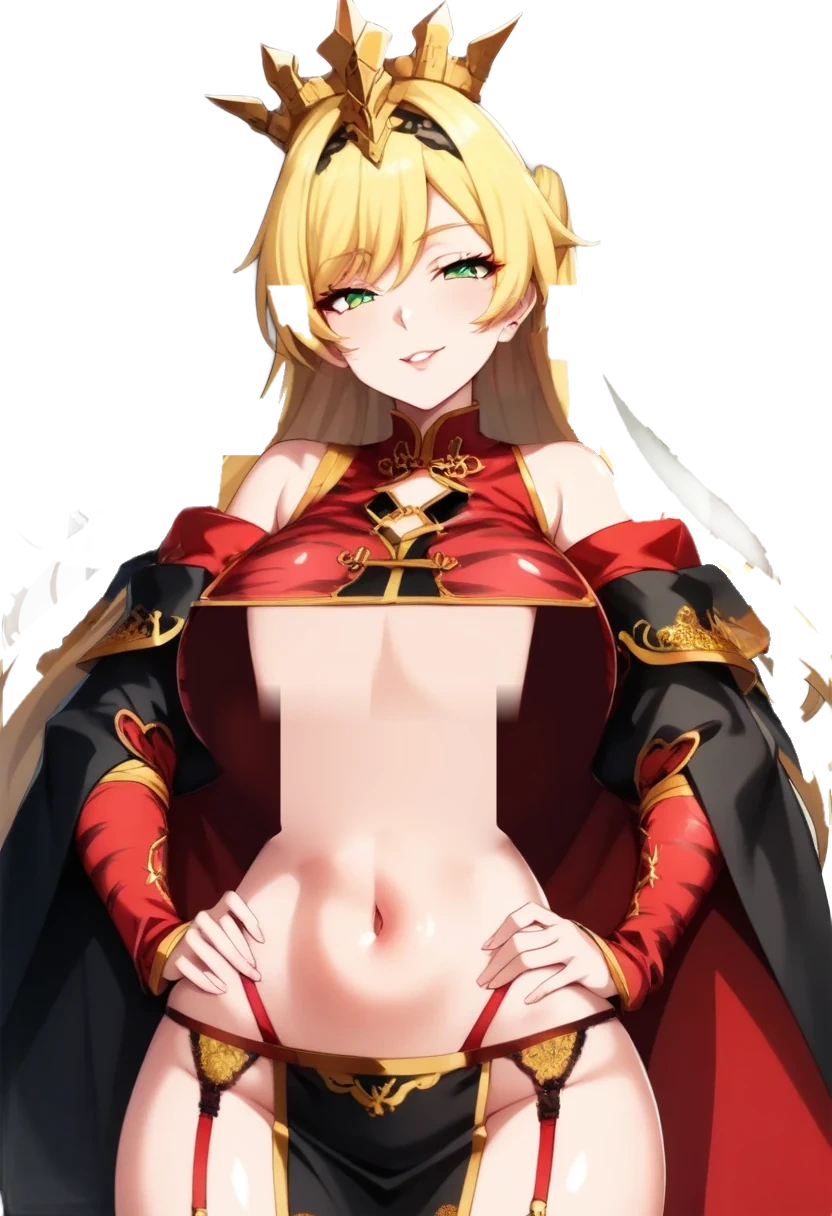
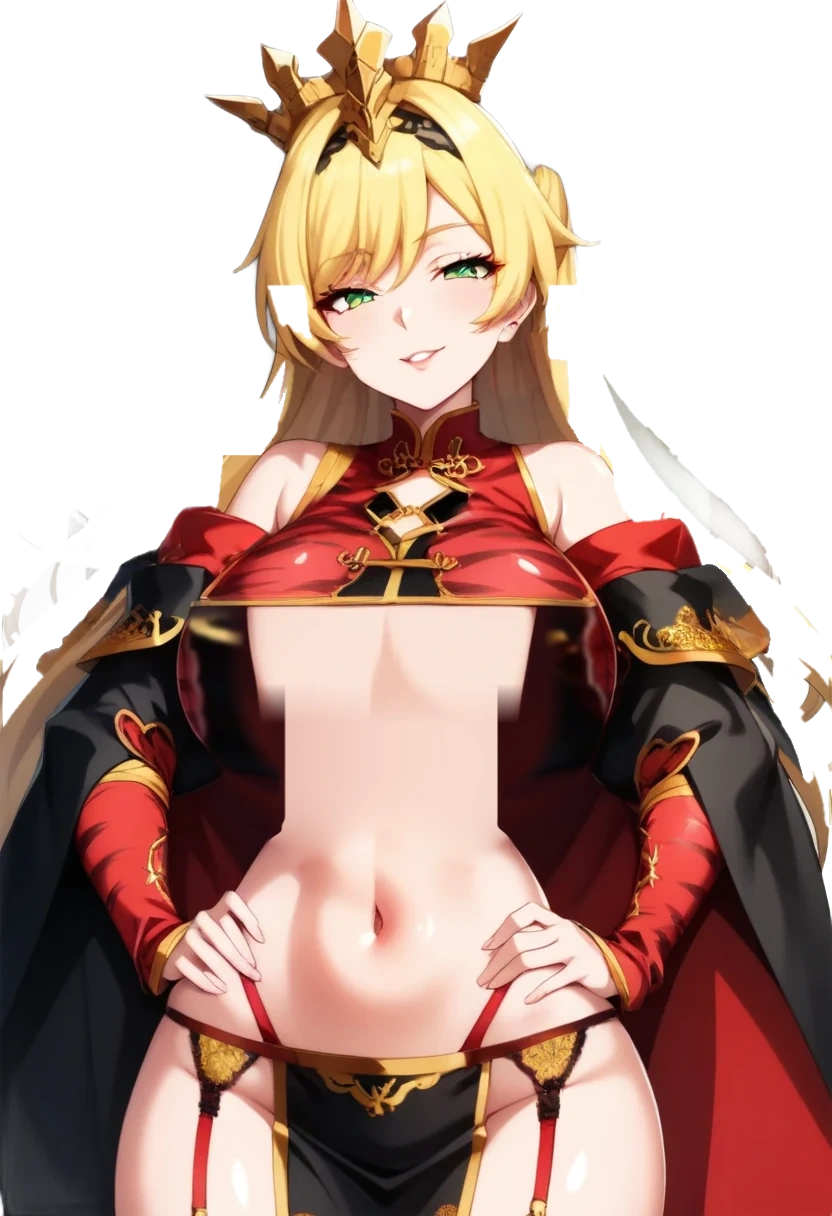
Sunquan UR: side reveal fill, tapered chest band
Claude-Session: https://claude.ai/code/session_017CQhY3FLdH51zJppLF11JD

Changed region(s): [[0.2188, 0.4688, 0.3438, 0.6875], [0.625, 0.4688, 0.75, 0.6562]]

diff --git a/game/public/js/layered.js b/game/public/js/layered.js
@@ -86,16 +86,19 @@
       var FE = opt.feather == null ? 6 : opt.feather, soft = FE > 0 ? blur(m, FE, 4) : m;   // 疊 4 次：遮罩內維持全蓋，只有外圍漸淡
       // 胸部下緣往下多帶一段（✅ Jay 2026-11-18：胸部一動，下面會露出留在原地的下緣線）：這一段的原圖跟著胸部層走，底下換成乾淨的平胸版
       var EX = ART ? (R.ext == null ? 20 : R.ext) : 0, ext = soft;
-      if (EX) { var e0 = cvs(), ec = e0.getContext("2d"); for (var dy = 0; dy <= EX; dy += 2) ec.drawImage(m, 0, dy); ext = blur(e0, FE, 4); }
+      var tap = null;
+      if (EX) { var e0 = cvs(), ec = e0.getContext("2d"); for (var dy = 0; dy <= EX; dy += 2) ec.drawImage(m, 0, dy); ext = blur(e0, FE, 4);
+        // 跟著胸部走的那一段要越往下越淡，不然移動時下緣會有一道階梯
+        var t0 = cvs(), tc = t0.getContext("2d"); for (dy = EX + 10; dy >= 0; dy -= 2) { tc.globalCompositeOperation = "destination-out"; tc.globalAlpha = 1; tc.drawImage(m, 0, dy); tc.globalCompositeOperation = "source-over"; tc.globalAlpha = Math.pow(1 - dy / (EX + 12), 1.6); tc.drawImage(m, 0, dy); } tc.globalAlpha = 1; tap = blur(t0, 4, 2); }
       var u = cvs(), uc = u.getContext("2d"); uc.drawImage(imgs.under, 0, 0); uc.globalCompositeOperation = "destination-in"; uc.drawImage(ext, 0, 0);
       var b = cvs(), bc = b.getContext("2d"); bc.drawImage(imgs.body, 0, 0);
       bc.globalCompositeOperation = "destination-out"; bc.drawImage(m, 0, 0); bc.globalCompositeOperation = "source-over"; bc.drawImage(u, 0, 0);
       // 胸部層：邊緣收一點柔邊
-      var c = cvs(), cc = c.getContext("2d"); cc.drawImage(imgs.body, 0, 0); if (ART) { cc.globalCompositeOperation = "destination-in"; cc.drawImage(ext, 0, 0); cc.globalCompositeOperation = "source-over"; cc.drawImage(imgs.chest, 0, 0); }
+      var c = cvs(), cc = c.getContext("2d"); cc.drawImage(imgs.body, 0, 0); if (ART) { cc.globalCompositeOperation = "destination-in"; cc.drawImage(tap || ext, 0, 0); cc.globalCompositeOperation = "source-over"; cc.drawImage(imgs.chest, 0, 0); }
       else { cc.globalCompositeOperation = "destination-in"; cc.drawImage(m, 0, 0); }
       tex = { base: mkTex(b), chest: mkTex(c), blink: mkTex(imgs.blink) }; if (imgs.acc) tex.acc = mkTex(imgs.acc); if (imgs.hair) tex.hair = mkTex(imgs.hair);
     }
-    names.forEach(function (n) { var im = new Image(); im.onload = function () { imgs[n] = im; if (--left === 0) compose(); }; im.src = base + (R.pre || id + "_") + n + ".webp?v=4"; });   // 改圖要換這個數字，不然手機會用到舊圖
+    names.forEach(function (n) { var im = new Image(); im.onload = function () { imgs[n] = im; if (--left === 0) compose(); }; im.src = base + (R.pre || id + "_") + n + ".webp?v=5"; });   // 改圖要換這個數字，不然手機會用到舊圖
 
     var P = { K: 38, C: 3.0, BREATH: 0.0035, BT: 3.8, LIFT: 0.016, MAX: 0.042, RIM: 0.28, amp: opt.amp == null ? 1 : opt.amp };   // MAX 是胸部中心的最大位移；邊緣只動 RIM 倍（約 0.28）
     var c = [{ x: 0, y: 0, vx: 0, vy: 0 }, { x: 0, y: 0, vx: 0, vy: 0 }], ear = [{ a: 0, v: 0 }, { a: 0, v: 0 }], hair = { x: 0, v: 0 };

diff --git a/game/public/index.html b/game/public/index.html
@@ -6,7 +6,7 @@
 <title>三國LEGEND</title>
 <link rel="stylesheet" href="https://fonts.googleapis.com/css2?family=LXGW+WenKai+TC:wght@400;700&display=swap">
 <link rel="stylesheet" href="https://fonts.googleapis.com/css2?family=Noto+Serif+TC:wght@400;700&display=swap">
-<link rel="stylesheet" href="css/style.css?v=1118d">
+<link rel="stylesheet" href="css/style.css?v=1118e">
 </head>
 <body>
 <svg width="0" height="0" style="position:absolute" aria-hidden="true">
@@ -50,18 +50,18 @@
 <div id="banner"></div>
 <div class="over" id="modal"><div class="scroll" id="modal-body"></div></div>
 
-<script src="js/data.js?v=1118d"></script>
-<script src="js/store.js?v=1118d"></script>
-<script src="js/gacha.js?v=1118d"></script>
-<script src="js/battle.js?v=1118d"></script>
-<script src="js/scene.js?v=1118d"></script>
-<script src="js/audio.js?v=1118d"></script>
-<script src="js/layered.js?v=1118d"></script>
-<script src="js/cardfx.js?v=1118d"></script>
-<script src="js/jiggle.js?v=1118d"></script>
-<script src="js/ui.js?v=1118d"></script>
-<script src="js/battle3d.js?v=1118d"></script>
-<script src="js/battle-ui.js?v=1118d"></script>
-<script src="js/main.js?v=1118d"></script>
+<script src="js/data.js?v=1118e"></script>
+<script src="js/store.js?v=1118e"></script>
+<script src="js/gacha.js?v=1118e"></script>
+<script src="js/battle.js?v=1118e"></script>
+<script src="js/scene.js?v=1118e"></script>
+<script src="js/audio.js?v=1118e"></script>
+<script src="js/layered.js?v=1118e"></script>
+<script src="js/cardfx.js?v=1118e"></script>
+<script src="js/jiggle.js?v=1118e"></script>
+<script src="js/ui.js?v=1118e"></script>
+<script src="js/battle3d.js?v=1118e"></script>
+<script src="js/battle-ui.js?v=1118e"></script>
+<script src="js/main.js?v=1118e"></script>
 </body>
 </html>

diff --git a/game/public/tool/card.html b/game/public/tool/card.html
@@ -1,6 +1,6 @@
 <!doctype html><html lang="zh-Hant"><head><meta charset="utf-8"><meta name="viewport" content="width=device-width,initial-scale=1,viewport-fit=cover,user-scalable=no">
 <title>卡面特效樣品｜三國LEGEND</title>
-<link rel="stylesheet" href="../css/style.css?v=1118d">
+<link rel="stylesheet" href="../css/style.css?v=1118e">
 <style>
 *{box-sizing:border-box}
 html,body{margin:0;height:100%;background:#07060a;color:#f0e8d8;overflow:hidden;-webkit-user-select:none;user-select:none}
@@ -72,8 +72,8 @@ canvas.pb,canvas.pf{width:100%;height:100%}
   </div>
 </div>
 <script>window.SG = {};</script>
-<script src="../js/data.js?v=1118d"></script>
-<script src="../js/jiggle.js?v=1118d"></script>
+<script src="../js/data.js?v=1118e"></script>
+<script src="../js/jiggle.js?v=1118e"></script>
 <script>
 (function () {
   var $ = function (s) { return document.querySelector(s); }, card = $("#card"), FV = { "魏": "wei", "蜀": "shu", "吳": "wu", "群雄": "qun", "黃巾": "yt" };

diff --git a/game/public/tool/sunquan.html b/game/public/tool/sunquan.html
@@ -17,7 +17,7 @@ input[type=range]{flex:1}
 <div class="row">淡化<input id="fe" type="range" min="0" max="40" step="2" value="6"><span id="fv">6</span></div>
 <div class="row">邊緣<input id="rim" type="range" min="0" max="1" step="0.05" value="0.28"><span id="rv">0.28</span></div>
 <div class="row">幅度<input id="amp" type="range" min="0.3" max="1.3" step="0.1" value="1"><span id="av">1.0</span><button id="poke">晃一下</button></div></div></div>
-<script src="../js/layered.js?v=1118d"></script>
+<script src="../js/layered.js?v=1118e"></script>
 <script>
 var stage=document.getElementById("stage"),amp=document.getElementById("amp"),ol=null,L=null;
 try{ol=JSON.parse(localStorage.getItem("sg_outline_sunquan_ur"))}catch(e){}

diff --git a/game/public/tool/level.html b/game/public/tool/level.html
@@ -36,7 +36,7 @@ body.off #pal button[data-k="p"],body.off #pal button[data-k^="e"],body.off #pal
   <div class="row"><button id="exp">匯出並複製給 Claude</button><button id="imp">貼上匯入</button><span id="msg"></span></div>
   <textarea id="io" placeholder="按「匯出」後這裡會出現關卡文字；要匯入就把文字貼在這裡再按「貼上匯入」"></textarea>
 </div></div>
-<script src="../js/data.js?v=1118d"></script>
+<script src="../js/data.js?v=1118e"></script>
 <script>
 (function(){
 var $=function(q){return document.querySelector(q)},KEY="sg_levels",grid=$("#grid");

diff --git a/game/public/tool/outline.html b/game/public/tool/outline.html
@@ -29,7 +29,7 @@ input[type=range]{flex:1;min-width:80px}
   <div class="row"><button id="copy" class="go">複製結果給 Claude</button><button id="reset">回到預設</button><span id="msg" style="color:#9fd0a0"></span></div>
   <textarea id="out" readonly></textarea>
 </div></div>
-<script src="../js/layered.js?v=1118d"></script>
+<script src="../js/layered.js?v=1118e"></script>
 <script>
 (function(){
 var ID="sunquan_ur",KEY="sg_outline_"+ID,R=SG.Layered.RIG[ID],$=function(q){return document.querySelector(q)};

diff --git a/game/public/tool/chest.html b/game/public/tool/chest.html
@@ -32,8 +32,8 @@ button.on{background:#d4a853;color:#120f14;border-color:#d4a853}button.go{backgr
   <textarea id="out" readonly></textarea>
 </div></div>
 <script>window.SG = {};</script>
-<script src="../js/data.js?v=1118d"></script>
-<script src="../js/jiggle.js?v=1118d"></script>
+<script src="../js/data.js?v=1118e"></script>
+<script src="../js/jiggle.js?v=1118e"></script>
 <script>
 (function(){
 var KEY="sg_chest_marks_v2",OLD="sg_chest_marks_v1",$=function(q){return document.querySelector(q)},marks={};
